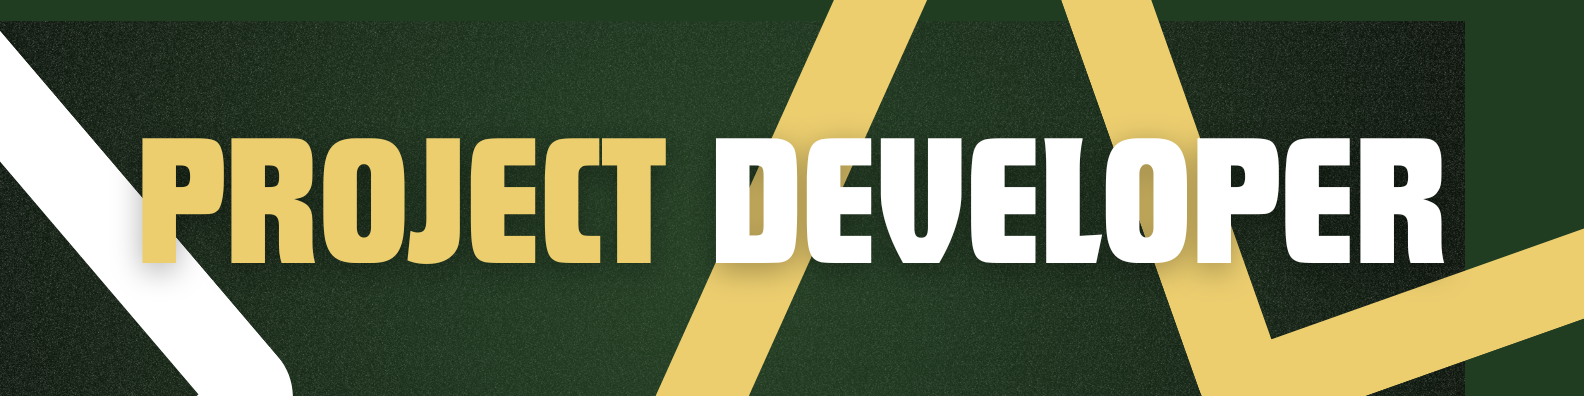
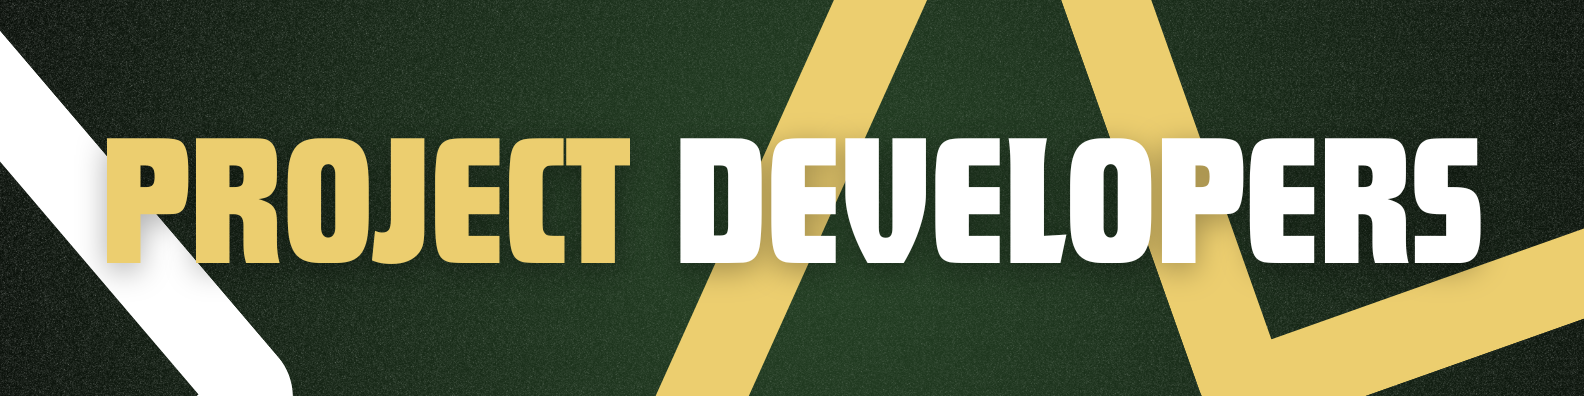
update README

diff --git a/README.md b/README.md
@@ -66,11 +66,14 @@ The system simplifies the donation process, ensuring efficient distribution of r
 
 ### Step 1: User Registration  
 - Users register to the system with a unique username and a password.
+
 ![register](videos/register.gif)
 
 ### Step 2: User Login  
 - Users log in with their registered credentials, then selecting their role as: **Donor** or **Recipient**.
-![login donor](videos/donor%20login.gif) 
+
+![login donor](videos/donor%20login.gif)
+
 ![recipient donor](videos/recipient%20login.gif)
 
 ### Step 3: Donor Workflow  
@@ -390,20 +393,29 @@ public class DonationDAO extends BaseDAO<Donation> {
 You must have downloaded and has set-up the following in order to continue:
 - Java Development Kit (JDK)
 - MySQL Server and JDBC (Java Connector)
-- IDE or Terminal
+- IDE or Terminal (Visual Studio Code)
+- Git (optional)
+- Github Account (optional)
 
 ### Installation
-1. Clone the repository:  
-   ```bash
-   git clone https://github.com/username/HearDrop.git
+1. Clone the repository:
+   - **Option 1**: (Git and a Github Account required.)
+        - Launch VS Code and open the command palette. Press `Ctrl+Shift+P`(Windows) or `Command+shift+P` (Mac) to open it.
+        - Type `Git: Clone` in the command palette and select it from the list of suggestions
+        - Copy and paste the following then hit `Enter`:
+            ```bash
+            https://github.com/DenreiAngeles/HearDrop.git
+            ```
+        - Select the destination of where you want to clone the repository.
+        - Open the cloned repository.
+   - **Option 2**:
+        - Navigate through the repository and download the `zip file`
+        - Extract the `folder` inside the `zip file` then open it in your IDE.
 2. Navigate to the project directory:
-   ```bash
-   cd HearDrop
+   - Dropdown `src` from the explorer and find the `Main` package.
 3. Compile and run the program:
-   ```bash
-   javac Main.java
-   java Main
-   ```
+   - Click `Main.java`, then compile and run it.
+
 ---
 ## System Modules 
 ![System Modules](images/9.png)
@@ -467,15 +479,15 @@ This project contains seven (7) packages and fifteen (15) modules all working to
 
 | **Class**           | **Package**  | **Description**                                                                                                                                                                                                 |
 |----------------------|--------------|-----------------------------------------------------------------------------------------------------------------------------------------------------------------------------------------------------------------|
-| `BaseDAO<T>`         | DAO          | Abstract class that provides reusable CRUD operations (`add`, `getById`, `getList`, `update`, `remove`). Subclasses implement `mapResultSetToObject` to define how to map database results to specific objects. |
+| `BaseDAO`         | DAO          | Abstract class that provides reusable CRUD operations (`add`, `getById`, `getList`, `update`, `remove`). Subclasses implement `mapResultSetToObject` to define how to map database results to specific objects. |
 | `DonationDAO`        | DAO          | Extends `BaseDAO` to handle operations specific to `Donation` objects, such as retrieving donations by donor or recipient and updating donation details.                                                       |
 | `UserDAO`            | DAO          | Extends `BaseDAO` to manage operations related to `User`, such as user registration, login, and retrieving user details.                                                                                      |
-| `HearDropDB`         | Database     | Provides a singleton database connection for all DAO classes to interact with the database.                                                                                                                   |
+| `HearDropDB`         | Database     | Provides a singleton database connection for all `DAO` classes to interact with the database.                                                                                                                   |
 | `Donation`           | Models       | Represents a donation item, including its details like `item_name`, `quantity`, `pickup_location`, `status`, and donor/recipient information.                                                                |
 | `User`               | Models       | Represents a user in the system with attributes like `id`, `username`, and `password`.                                                                                                                        |
 | `BaseMenu`           | Menus        | Abstract class for menu interfaces. Defines a structure for displaying menus, handling user choices, and managing menu navigation.                                                                             |
-| `DonorMenu`          | Menus        | Extends `BaseMenu` to provide a menu interface for donors, including options to donate items, view donations, edit donations, and remove items.                                                               |
-| `RecipientMenu`      | Menus        | Extends `BaseMenu` to provide a menu interface for recipients, including options to view available items, reserve items, and manage their reservations.                                                        |
+| `DonorMenu`          | Menus        | Extends `BaseMenu` to provide a menu interface for donors, including options to `donate items`, `view donations`, `edit donations`, and `remove items`.                                                               |
+| `RecipientMenu`      | Menus        | Extends `BaseMenu` to provide a menu interface for recipients, including options to `view available items`, `reserve items`, and `manage their reservations`.                                                        |
 | `DesignUtils`        | Utils        | Provides utility methods for styling and formatting console output, such as headers and dividers.                                                                                                              |
 | `LogUtils`           | Utils        | Provides utility methods for logging errors and information to a file.                                                                                                                                         |
 | `Main`               | Main         | Entry point of the application. Handles user authentication and role-based menu redirection (donor or recipient).                                                                                              |
@@ -488,19 +500,24 @@ This project contains seven (7) packages and fifteen (15) modules all working to
 ---
 ## SDG Implementation 
 ![SDG Implementation](images/10.png)
+### This project has mainly focused on 2 Sustainable Development Goals which are:
 1. **Zero Hunger**: Facilitates the distribution of food and resources to those in need.
 2. **Responsible Consumption and Production**: Reduces waste by ensuring donations reach recipients effectively.
 ---
 ## Future Enhancements 
-![SDG Implementation](images/11.png)
-- Add real-time notifications for new donations or reservations.
-- Implement a web-based interface for broader accessibility.
-- Enhance reporting features for tracking donations and reservations.
+![Future Enhancements](images/11.png)
+- ### **Add** real-time notifications for new donations or reservations.
+- ### **Implement** a web-based interface for broader accessibility.
+- ### **Enhance** reporting features for tracking donations and reservations.
 
 [Back to Top](#project-overview)
 
 ---
 ## Project Developers 
+
+![Project Developers](images/12.png)
+
+ahahaha wala pa
 
 
 [Back to Top](#project-overview)
